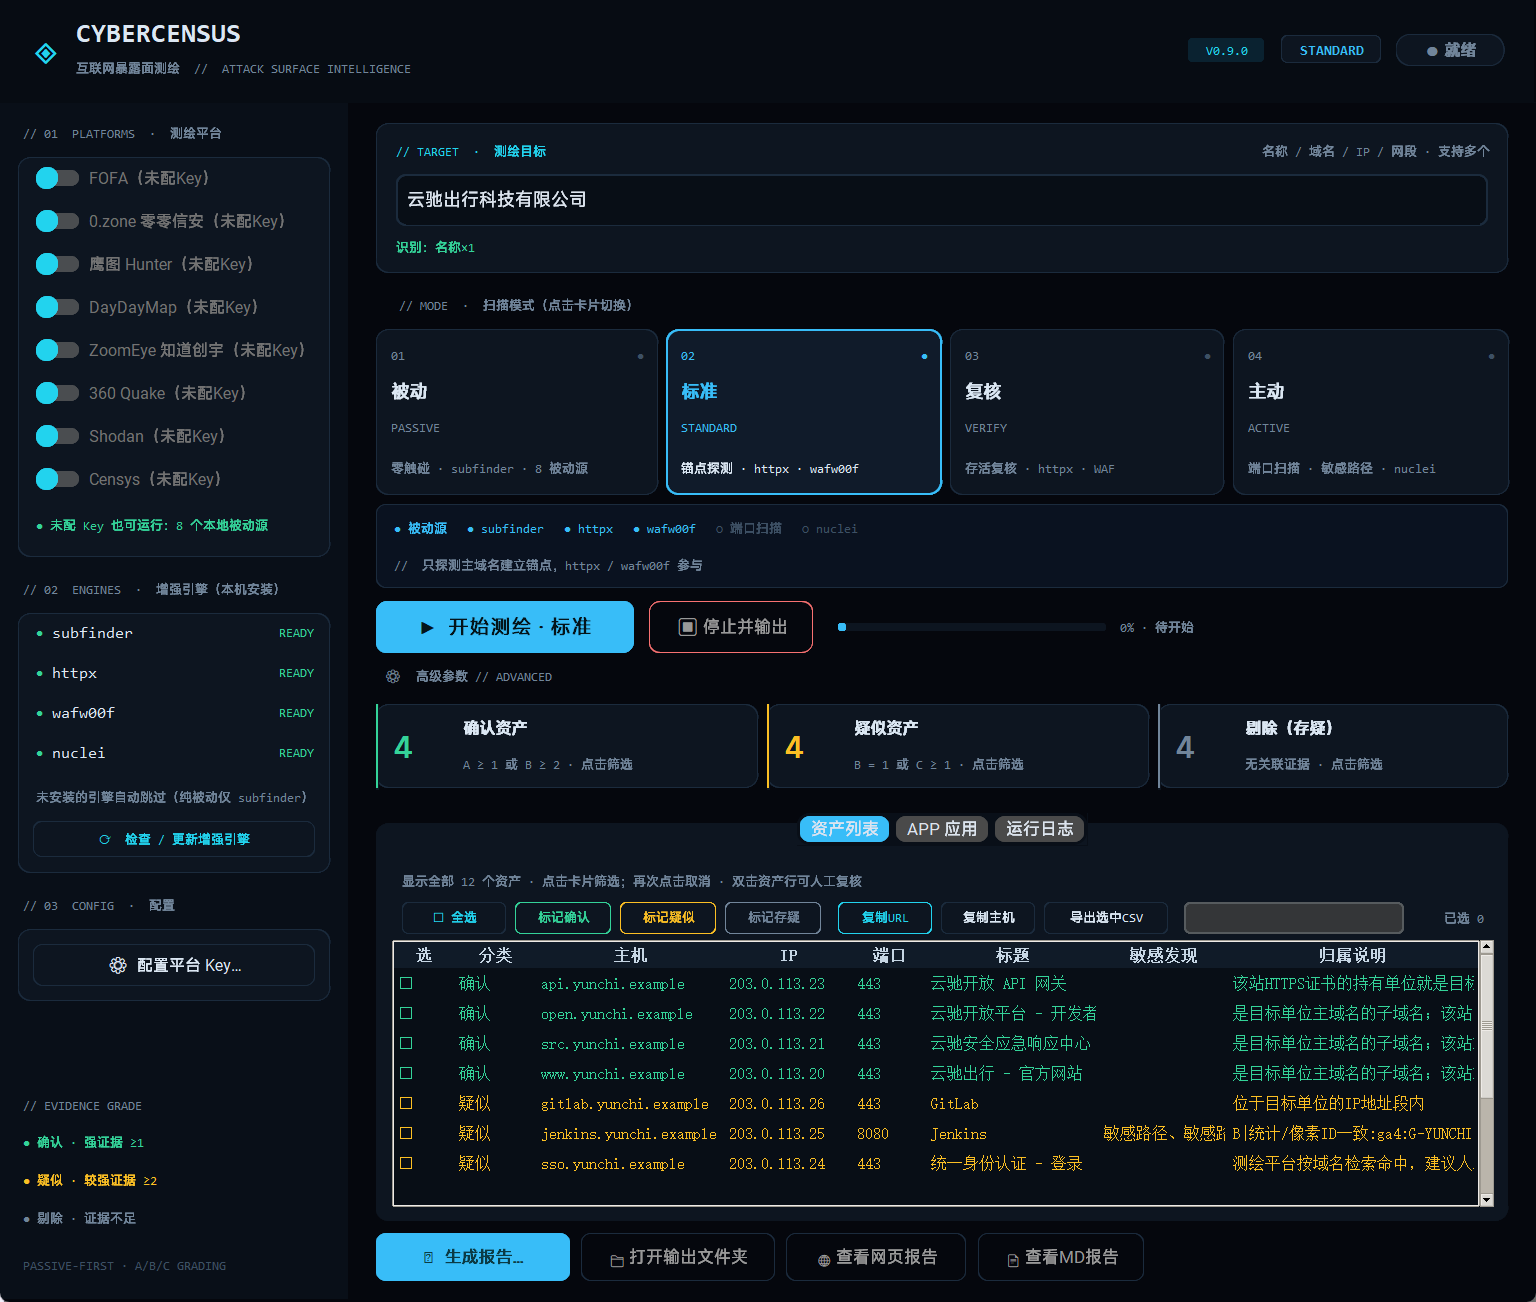
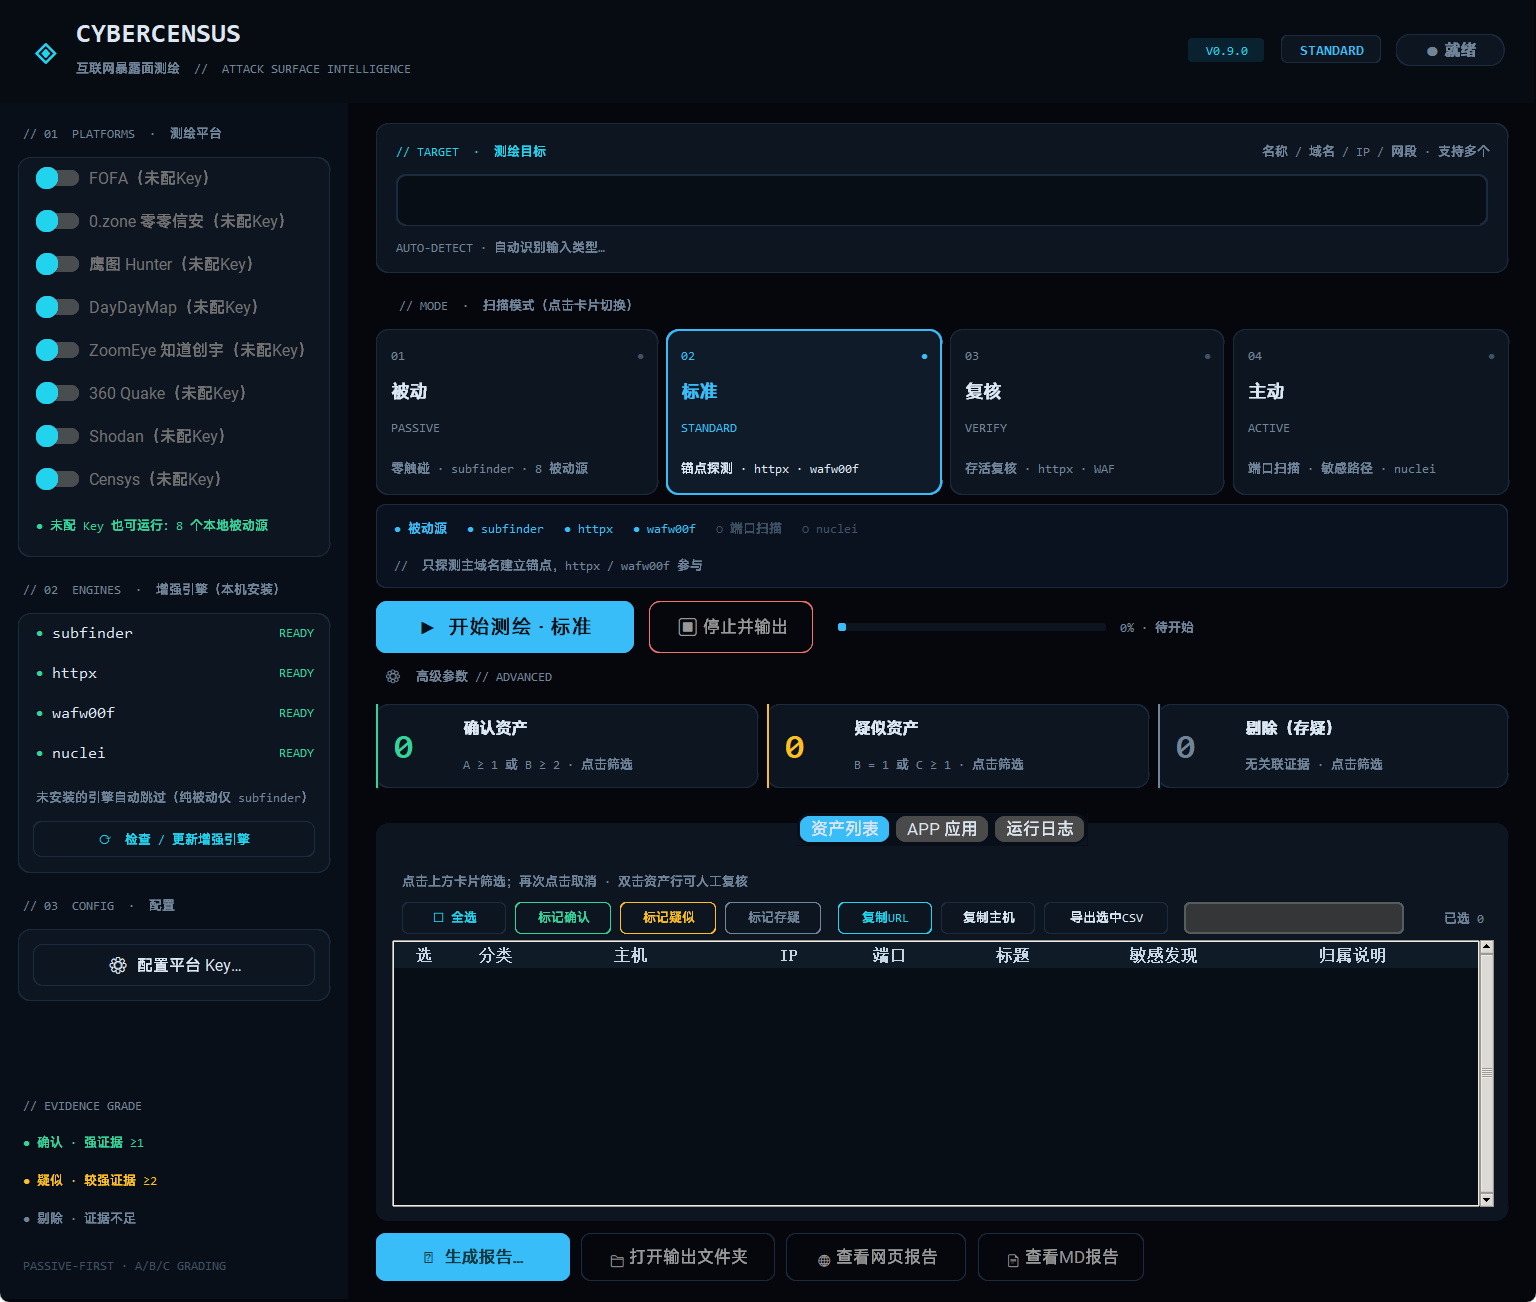
docs: 宣传稿截图改为真实 GUI 界面（主界面/高级参数/报告格式），移除虚构演示数据

diff --git a/packaging/_make_screenshots.py b/packaging/_make_screenshots.py
@@ -1,9 +1,7 @@
-"""生成 CSDN 宣传稿用的界面演示截图（全部为虚构演示数据）。"""
-import argparse
+"""生成 CSDN 宣传稿用的真实界面截图（不注入任何演示数据）。"""
 import importlib.util
 import os
 import sys
-import tempfile
 import time
 
 from PIL import ImageGrab
@@ -13,128 +11,10 @@ OUT = os.path.join(ROOT, "docs", "screenshots")
 os.makedirs(OUT, exist_ok=True)
 
 sys.argv = ["asm_gui.pyw"]
-spec = importlib.util.spec_from_file_location("asm_gui", os.path.join(ROOT, "asm_gui.pyw"))
+spec = importlib.util.spec_from_file_location("asm_gui",
+                                              os.path.join(ROOT, "asm_gui.pyw"))
 gui = importlib.util.module_from_spec(spec)
 spec.loader.exec_module(gui)
-import cybercensus  # noqa: E402
-
-
-def fake_engine():
-    e = cybercensus.Engine(argparse.Namespace(
-        beian="", threads=10, timeout=5,
-        out=tempfile.mkdtemp(prefix="cc_demo_"),
-        output_formats="html"))
-    rows = [
-        ("www.yunchi.example", 443, "https", "确认",
-         "云驰出行 - 官方网站", "203.0.113.20",
-         ["A|主域名子域:yunchi.example", "A|证书O=一致:云驰出行科技有限公司",
-          "B|页面备案号一致:京ICP备2024000000号"],
-         {"beian": "京ICP备2024000000号-1", "cert_org": "云驰出行科技有限公司",
-          "rdap_org": "云驰出行科技有限公司", "asn": "AS64500",
-          "asn_org": "YUNCHI-MOBILITY-AS",
-          "emails": {"security@yunchi.example"},
-          "phones": {"010-00000000"},
-          "authorities": {"云驰出行科技有限公司"},
-          "trackings": {"ga4:G-YUNCHI2024"},
-          "verify_tokens": {"google:yunchi-demo-token"},
-          "credit_code": "91110108MA0000000X",
-          "site_code": "11010800000000000000",
-          "police_beian": "京公网安备 11010800000000号",
-          "registry_ids": {"LEI:YUNCHI000000000000000"},
-          "refs": {"src.yunchi.example", "open.yunchi.example"},
-          "server": "nginx/1.24.0",
-          "tech": "nginx / Vue / jQuery",
-          "source": "crt.sh",
-          "title": "云驰出行 - 官方网站"}),
-        ("src.yunchi.example", 443, "https", "确认",
-         "云驰安全应急响应中心", "203.0.113.21",
-         ["A|主域名子域:yunchi.example", "A|证书O=一致:云驰出行科技有限公司",
-          "B|统计/像素ID一致:ga4:G-YUNCHI2024"],
-         {"cert_org": "云驰出行科技有限公司", "trackings": {"ga4:G-YUNCHI2024"},
-          "source": "crt.sh", "title": "云驰安全应急响应中心"}),
-        ("open.yunchi.example", 443, "https", "确认",
-         "云驰开放平台 - 开发者中心", "203.0.113.22",
-         ["A|主域名子域:yunchi.example", "B|页脚主办/版权单位一致:云驰出行科技有限公司"],
-         {"authorities": {"云驰出行科技有限公司"}, "source": "搜索引擎",
-          "title": "云驰开放平台 - 开发者中心"}),
-        ("api.yunchi.example", 443, "https", "确认",
-         "云驰开放 API 网关", "203.0.113.23",
-         ["A|证书O=一致:云驰出行科技有限公司", "B|联系邮箱一致:security@yunchi.example"],
-         {"cert_org": "云驰出行科技有限公司",
-          "emails": {"security@yunchi.example"}, "source": "httpx",
-          "title": "云驰开放 API 网关"}),
-        ("sso.yunchi.example", 443, "https", "疑似",
-         "统一身份认证 - 登录", "203.0.113.24",
-         ["B|平台domain命中(待核)", "C|同锚点IP:203.0.113.24"],
-         {"source": "FOFA", "title": "统一身份认证 - 登录"}),
-        ("jenkins.yunchi.example", 8080, "http", "疑似",
-         "Jenkins", "203.0.113.25",
-         ["B|统计/像素ID一致:ga4:G-YUNCHI2024", "C|平台IP命中:203.0.113.25"],
-         {"trackings": {"ga4:G-YUNCHI2024"}, "source": "FOFA",
-          "title": "Jenkins"}),
-        ("gitlab.yunchi.example", 443, "https", "疑似",
-         "GitLab", "203.0.113.26",
-         ["C|平台IP命中:203.0.113.26"],
-         {"source": "Hunter", "title": "GitLab"}),
-        ("test.yunchi.example", 443, "https", "疑似",
-         "预发布环境", "203.0.113.27",
-         ["B|平台domain命中(待核)"],
-         {"source": "DayDayMap", "title": "预发布环境"}),
-        ("vpn.yunchi.example", 443, "https", "存疑",
-         "SSL VPN", "203.0.113.28",
-         [],
-         {"reject_reason": "无任何关联证据"}),
-        ("cdn.yunchi.example", 443, "https", "存疑",
-         "CDN 节点", "203.0.113.29",
-         [],
-         {"reject_reason": "第三方云/CDN资源，且无强关联证据"}),
-        ("mail.yunchi.example", 443, "https", "存疑",
-         "企业邮箱", "203.0.113.30",
-         [],
-         {"reject_reason": "无任何关联证据"}),
-        ("old.yunchi.example", 80, "http", "存疑",
-         "站点已迁移", "203.0.113.31",
-         [],
-         {"reject_reason": "无任何关联证据"}),
-    ]
-    for host, port, scheme, conf, title, ip, ev, extra in rows:
-        a = e.add_asset(host, port, scheme, source="demo")
-        a.source = {extra.get("source", "crt.sh")}
-        a.confidence = conf
-        a.title = title
-        a.ip = ip
-        a.evidence = ev
-        a.cert_org = extra.get("cert_org", "")
-        a.beian = extra.get("beian", "")
-        a.rdap_org = extra.get("rdap_org", "")
-        a.asn = extra.get("asn", "")
-        a.asn_org = extra.get("asn_org", "")
-        a.reject_reason = extra.get("reject_reason", "")
-        a.status = "200 OK" if conf != "存疑" else "404 Not Found"
-        a.server = extra.get("server", "nginx")
-        a.tech = extra.get("tech", "nginx / Vue")
-        a.credit_code = extra.get("credit_code", "")
-        a.site_code = extra.get("site_code", "")
-        a.police_beian = extra.get("police_beian", "")
-        a.registry_ids.update(extra.get("registry_ids") or set())
-        a.refs.update(extra.get("refs") or set())
-        a.emails.update(extra.get("emails") or set())
-        a.phones.update(extra.get("phones") or set())
-        a.authorities.update(extra.get("authorities") or set())
-        a.trackings.update(extra.get("trackings") or set())
-        a.findings.update({".git 目录可访问|敏感路径", "Swagger 接口文档|敏感路径"}
-                          if host.startswith("jenkins.") else set())
-    # 让图谱有足够的连线：非存疑资产都带 ASN，确认资产带证书 O=
-    for a in e.assets.values():
-        if a.confidence == "存疑":
-            continue
-        if not a.asn:
-            a.asn, a.asn_org = "AS64500", "YUNCHI-MOBILITY-AS"
-        if a.confidence == "确认" and not a.cert_org:
-            a.cert_org = "云驰出行科技有限公司"
-    e.anchor["orgs"].add("云驰出行科技有限公司")
-    e.anchor["domains"].add("yunchi.example")
-    return e
 
 
 def grab(widget, path, topmost=False):
@@ -162,76 +42,31 @@ def main():
         app.tabview.configure(height=360)
     except Exception:
         pass
-    app.deiconify()
-    e = fake_engine()
-    app.ent_target.insert(0, "云驰出行科技有限公司")
-    app._preview_target()
-    app._populate_table(e)
     app.tabview.set("资产列表")
+    app.deiconify()
+    app.update()
     grab(app, os.path.join(OUT, "01-main.png"), topmost=True)
 
-    # 只看疑似 + 全选，展示筛选与多选
-    app._toggle_filter("疑似")
-    app._toggle_select_all()
-    grab(app, os.path.join(OUT, "02-list.png"), topmost=True)
-
-    # 详情 / 人工复核
-    target = next(a for a in e.assets.values() if a.confidence == "确认")
-    app._show_asset_detail(target)
+    # 高级参数窗口（真实控件，未改任何值；加宽避免右侧控件被裁）
+    app._open_adv()
+    app.adv_win.geometry("1000x700")
     app.update()
-    time.sleep(0.5)
+    time.sleep(0.4)
+    grab(app.adv_win, os.path.join(OUT, "02-advanced.png"), topmost=True)
+
+    # 报告格式选择窗口（不点“生成”，只展示 7 种格式开关）
+    app._last_engine = object()
+    app._open_report_dialog()
+    app.update()
+    time.sleep(0.4)
     dialogs = [w for w in app.winfo_children()
-               if isinstance(w, gui.ctk.CTkToplevel)]
+               if isinstance(w, gui.ctk.CTkToplevel) and w is not app.adv_win]
     if dialogs:
-        dialogs[-1].geometry("820x470")
-        dialogs[-1].update_idletasks()
+        dialogs[-1].geometry("600x470")
         dialogs[-1].update()
-        time.sleep(0.4)
-        grab(dialogs[-1], os.path.join(OUT, "03-detail.png"), topmost=True)
+        time.sleep(0.3)
+        grab(dialogs[-1], os.path.join(OUT, "03-report.png"), topmost=True)
     app.destroy()
-
-    make_graph_screenshot(e)
-
-
-def make_graph_screenshot(eng):
-    """从真实 HTML 报告里取出图谱区块，用 Chrome 无头截一张图。"""
-    import re
-    import subprocess
-    eng.args.output_formats = "html"
-    eng.output()
-    html_path = next((os.path.join(eng.args.out, f)
-                      for f in os.listdir(eng.args.out) if f.endswith(".html")), "")
-    if not html_path:
-        print("no html report, skip graph")
-        return
-    with open(html_path, "r", encoding="utf-8") as fh:
-        html = fh.read()
-    m = re.search(r"<div id='graph'.*?</script>", html, re.S)
-    if not m:
-        print("no graph block, skip")
-        return
-    page = ("<!doctype html><meta charset='utf-8'><style>"
-            "body{margin:0;background:#070d16;color:#dfe9f5;"
-            "font-family:'Microsoft YaHei',sans-serif;padding:22px}"
-            "h2{font-size:18px;font-weight:600;margin:0 0 4px}"
-            ".muted{color:#8aa0b6;font-size:12px;margin:0 0 14px}"
-            "</style><h2>🕸 资产关系图谱（可交互）</h2>"
-            "<p class='muted'>节点：主机 / IP / ASN / 证书组织 / 统计 ID / 验证令牌。"
-            "鼠标悬停查看节点详情。</p>" + m.group(0))
-    page_path = os.path.join(eng.args.out, "graph_demo.html")
-    with open(page_path, "w", encoding="utf-8") as fh:
-        fh.write(page)
-    chrome = r"C:\Program Files\Google\Chrome\Application\chrome.exe"
-    if not os.path.isfile(chrome):
-        print("chrome not found, skip graph")
-        return
-    out = os.path.join(OUT, "04-graph.png")
-    subprocess.run([chrome, "--headless=new", "--disable-gpu", "--hide-scrollbars",
-                    "--force-device-scale-factor=2",
-                    "--window-size=1280,700", "--virtual-time-budget=4000",
-                    "--screenshot=" + out, "file:///" + page_path.replace("\\", "/")],
-                   check=False)
-    print("saved", out)
 
 
 if __name__ == "__main__":

diff --git a/docs/csdn-article.md b/docs/csdn-article.md
@@ -72,50 +72,34 @@
 
 ---
 
-## 三、实际跑起来是什么样？
+## 三、界面长什么样？
 
-> 实际结果受搜索引擎收录、平台配额和目标网络影响。
+Windows 原生 GUI，不用记命令行。下面都是实际界面截图（尚未开始扫描的初始状态）。
 
-SRC 场景是这类工具最典型的用法：补天 / 漏洞盒子上的厂商通常有官网、开放平台、
-SRC 门户、API 网关、测试环境、CI/CD 等一堆分散资产，正好需要先摸清范围再谈测试。
-
-下面用**虚构的"云驰出行科技有限公司"**（一家典型开了 SRC 的出行科技公司）演示，
-不展示任何真实厂商的资产清单：
-
-- 纯名称模式：从公司名找官网，再用证书 O=、备案号、联系方式互证
-- 有平台 Key：自动追加 domain / cert / ICP / 统计 ID / favicon 查询
-- SRC 门户、开放平台、API 网关这类子域会被单独标出来，测试环境、Jenkins、
-  GitLab 一类边缘系统进入"疑似"，留人工判断
-- 结果进三份台账，确认清单里的每一条都能点开看"为什么算它的"
-
-> 下面四张截图为**虚构演示数据**（公司、域名、IP、备案号、证书信息均为示例），
-> 用来说明界面和证据字段，不代表任何真实单位。
-
-**图 1：主界面 —— 输入单位名称，选模式，开始测绘**
+**图 1：主界面**
 
 ![主界面](screenshots/01-main.png)
 
-左侧是 8 个测绘平台的 Key 状态和四个增强引擎（subfinder / httpx / wafw00f / nuclei）；
-中间三张卡片实时显示确认 / 疑似 / 剔除数量，点一下就只看那一类。
+- 左侧：8 个测绘平台的 Key 状态（未配 Key 会自动禁用）和四个增强引擎的检测结果
+- 中间：目标输入框（名称 / 域名 / IP / 网段，自动识别）、四种模式卡片、进度和剩余时间
+- 三张统计卡片：确认 / 疑似 / 剔除，点一下就只看那一类，再点一次恢复全部
+- 资产列表：全选、批量改判、复制 URL / 复制主机、导出选中 CSV、双击看证据
+- 底部：一键生成报告、打开输出目录、查看网页报告 / Markdown 报告
 
-**图 2：点击"疑似资产"筛选 + 多选批量改判**
+**图 2：高级参数**
 
-![筛选与多选](screenshots/02-list.png)
+![高级参数](screenshots/02-advanced.png)
 
-再点一次同一张卡片恢复全部；勾选后可以批量标确认 / 标疑似 / 标存疑、复制 URL、导出 CSV。
+并发线程、平台翻页、常用端口、全端口 / C 段扩展、敏感路径探测、增强引擎开关、
+Webhook 告警、APP 包分析、路径线索采集、ASN 扫描、持续监控等都在这里，
+改完立即生效；主动相关选项都带"授权"提示。
 
-**图 3：点开任意资产，看它"为什么算这个单位的"**
+**图 3：报告格式选择**
 
-![资产详情](screenshots/03-detail.png)
+![报告格式](screenshots/03-report.png)
 
-证书 O=、RDAP 注册人、备案号、信用代码、ASN、邮箱、电话、页脚单位、统计 ID，
-每条证据都列出来，底部可直接人工改判。
-
-**图 4：HTML 报告里的资产关系图谱**
-
-![资产图谱](screenshots/04-graph.png)
-
-主机、IP、ASN、证书组织、统计 ID 之间的关系一图看清，适合放进交付报告。
+HTML / PDF / Word / TXT / Markdown / CSV / JSON 七种格式可多选；
+HTML 带可交互的资产关系图谱，PDF 由 HTML 无头打印生成。
 
 ---
 
@@ -152,7 +136,7 @@ python asm_gui.pyw
 
 ```bash
 # 只给名称
-python cybercensus.py -n "某某市人民医院"
+python cybercensus.py -n "某某科技有限公司"
 
 # 已知域名
 python cybercensus.py -d example.com
@@ -234,12 +218,11 @@ python cybercensus.py -d example.com --watch 30
 
 **图片上传：**
 
-CSDN 编辑器不会读取仓库里的相对路径，正文粘贴后把下面 4 张图按顺序拖进编辑器，
+CSDN 编辑器不会读取仓库里的相对路径，正文粘贴后把下面 3 张图按顺序拖进编辑器，
 替换掉对应的 `![...](screenshots/xx.png)`：
 
 1. `docs/screenshots/01-main.png`
-2. `docs/screenshots/02-list.png`
-3. `docs/screenshots/03-detail.png`
-4. `docs/screenshots/04-graph.png`
+2. `docs/screenshots/02-advanced.png`
+3. `docs/screenshots/03-report.png`
 
 **封面：** 用 `docs/social-preview.png`（1280×640）。
